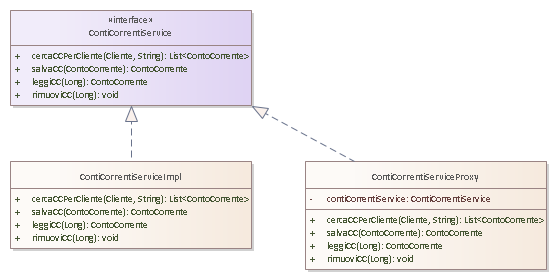
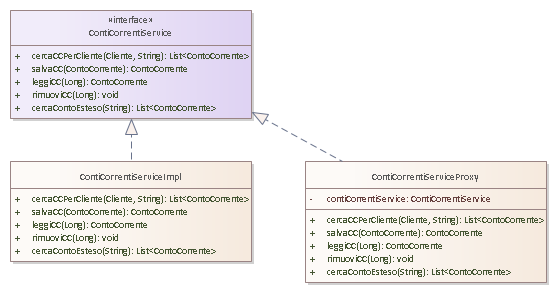
Aggiornato UML

diff --git a/UML/EARoot/EA8/EA1/EA158.htm b/UML/EARoot/EA8/EA1/EA158.htm
@@ -167,8 +167,8 @@
 				</tr>
 		   		<tr>
 					<td class="TableRowBottomDashed"  colspan="2">
-						<div class="DetailsDivParent"><button onclick="switchProjectProperties()"><img src="../../../images/minus03.gif" align="absmiddle" id="DetailsImageMessage155" /></button>Details:
-							<div id="detailsDIVMessage155" class="DetailsDiv" >
+						<div class="DetailsDivParent"><button onclick="switchProjectProperties()"><img src="../../../images/minus03.gif" align="absmiddle" id="DetailsImageMessage158" /></button>Details:
+							<div id="detailsDIVMessage158" class="DetailsDiv" >
 							<strong>Type:</strong> Sequence Synchronous Call<br />
 							&nbsp;
 							</div>
@@ -181,8 +181,8 @@
 				</tr>
 		   		<tr>
 					<td class="TableRowBottomDashed"  colspan="2">
-						<div class="DetailsDivParent"><button onclick="switchProjectProperties()"><img src="../../../images/minus03.gif" align="absmiddle" id="DetailsImageMessage156" /></button>Details:
-							<div id="detailsDIVMessage156" class="DetailsDiv" >
+						<div class="DetailsDivParent"><button onclick="switchProjectProperties()"><img src="../../../images/minus03.gif" align="absmiddle" id="DetailsImageMessage159" /></button>Details:
+							<div id="detailsDIVMessage159" class="DetailsDiv" >
 							<strong>Type:</strong> Sequence Synchronous Call<br />
 							&nbsp;
 							</div>
@@ -195,8 +195,8 @@
 				</tr>
 		   		<tr>
 					<td class="TableRowBottomDashed"  colspan="2">
-						<div class="DetailsDivParent"><button onclick="switchProjectProperties()"><img src="../../../images/minus03.gif" align="absmiddle" id="DetailsImageMessage157" /></button>Details:
-							<div id="detailsDIVMessage157" class="DetailsDiv" >
+						<div class="DetailsDivParent"><button onclick="switchProjectProperties()"><img src="../../../images/minus03.gif" align="absmiddle" id="DetailsImageMessage160" /></button>Details:
+							<div id="detailsDIVMessage160" class="DetailsDiv" >
 							<strong>Type:</strong> Sequence Synchronous Call<br />
 							&nbsp;
 							</div>
@@ -218,8 +218,8 @@
 				</tr>
 		   		<tr>
 					<td class="TableRowBottomDashed"  colspan="2">
-						<div class="DetailsDivParent"><button onclick="switchProjectProperties()"><img src="../../../images/minus03.gif" align="absmiddle" id="DetailsImageMessage158" /></button>Details:
-							<div id="detailsDIVMessage158" class="DetailsDiv" >
+						<div class="DetailsDivParent"><button onclick="switchProjectProperties()"><img src="../../../images/minus03.gif" align="absmiddle" id="DetailsImageMessage161" /></button>Details:
+							<div id="detailsDIVMessage161" class="DetailsDiv" >
 							<strong>Type:</strong> Sequence Synchronous Call<br />
 							&nbsp;
 							</div>
@@ -232,8 +232,8 @@
 				</tr>
 		   		<tr>
 					<td class="TableRowBottomDashed"  colspan="2">
-						<div class="DetailsDivParent"><button onclick="switchProjectProperties()"><img src="../../../images/minus03.gif" align="absmiddle" id="DetailsImageMessage159" /></button>Details:
-							<div id="detailsDIVMessage159" class="DetailsDiv" >
+						<div class="DetailsDivParent"><button onclick="switchProjectProperties()"><img src="../../../images/minus03.gif" align="absmiddle" id="DetailsImageMessage162" /></button>Details:
+							<div id="detailsDIVMessage162" class="DetailsDiv" >
 							<strong>Type:</strong> Sequence Synchronous Call<br />
 							&nbsp;
 							</div>
@@ -246,8 +246,8 @@
 				</tr>
 		   		<tr>
 					<td class="TableRowBottomDashed"  colspan="2">
-						<div class="DetailsDivParent"><button onclick="switchProjectProperties()"><img src="../../../images/minus03.gif" align="absmiddle" id="DetailsImageMessage160" /></button>Details:
-							<div id="detailsDIVMessage160" class="DetailsDiv" >
+						<div class="DetailsDivParent"><button onclick="switchProjectProperties()"><img src="../../../images/minus03.gif" align="absmiddle" id="DetailsImageMessage163" /></button>Details:
+							<div id="detailsDIVMessage163" class="DetailsDiv" >
 							<strong>Type:</strong> Sequence Synchronous Call<br />
 							&nbsp;
 							</div>

diff --git a/UML/EARoot/EA8/EA1/EA157.htm b/UML/EARoot/EA8/EA1/EA157.htm
@@ -167,8 +167,8 @@
 				</tr>
 		   		<tr>
 					<td class="TableRowBottomDashed"  colspan="2">
-						<div class="DetailsDivParent"><button onclick="switchProjectProperties()"><img src="../../../images/minus03.gif" align="absmiddle" id="DetailsImageMessage151" /></button>Details:
-							<div id="detailsDIVMessage151" class="DetailsDiv" >
+						<div class="DetailsDivParent"><button onclick="switchProjectProperties()"><img src="../../../images/minus03.gif" align="absmiddle" id="DetailsImageMessage154" /></button>Details:
+							<div id="detailsDIVMessage154" class="DetailsDiv" >
 							<strong>Type:</strong> Sequence Synchronous Call<br />
 							&nbsp;
 							</div>
@@ -181,8 +181,8 @@
 				</tr>
 		   		<tr>
 					<td class="TableRowBottomDashed"  colspan="2">
-						<div class="DetailsDivParent"><button onclick="switchProjectProperties()"><img src="../../../images/minus03.gif" align="absmiddle" id="DetailsImageMessage152" /></button>Details:
-							<div id="detailsDIVMessage152" class="DetailsDiv" >
+						<div class="DetailsDivParent"><button onclick="switchProjectProperties()"><img src="../../../images/minus03.gif" align="absmiddle" id="DetailsImageMessage155" /></button>Details:
+							<div id="detailsDIVMessage155" class="DetailsDiv" >
 							<strong>Type:</strong> Sequence Synchronous Call<br />
 							&nbsp;
 							</div>
@@ -204,8 +204,8 @@
 				</tr>
 		   		<tr>
 					<td class="TableRowBottomDashed"  colspan="2">
-						<div class="DetailsDivParent"><button onclick="switchProjectProperties()"><img src="../../../images/minus03.gif" align="absmiddle" id="DetailsImageMessage153" /></button>Details:
-							<div id="detailsDIVMessage153" class="DetailsDiv" >
+						<div class="DetailsDivParent"><button onclick="switchProjectProperties()"><img src="../../../images/minus03.gif" align="absmiddle" id="DetailsImageMessage156" /></button>Details:
+							<div id="detailsDIVMessage156" class="DetailsDiv" >
 							<strong>Type:</strong> Sequence Synchronous Call<br />
 							&nbsp;
 							</div>
@@ -218,8 +218,8 @@
 				</tr>
 		   		<tr>
 					<td class="TableRowBottomDashed"  colspan="2">
-						<div class="DetailsDivParent"><button onclick="switchProjectProperties()"><img src="../../../images/minus03.gif" align="absmiddle" id="DetailsImageMessage154" /></button>Details:
-							<div id="detailsDIVMessage154" class="DetailsDiv" >
+						<div class="DetailsDivParent"><button onclick="switchProjectProperties()"><img src="../../../images/minus03.gif" align="absmiddle" id="DetailsImageMessage157" /></button>Details:
+							<div id="detailsDIVMessage157" class="DetailsDiv" >
 							<strong>Type:</strong> Sequence Synchronous Call<br />
 							&nbsp;
 							</div>

diff --git a/UML/EARoot/EA6/EA2/EA94.htm b/UML/EARoot/EA6/EA2/EA94.htm
@@ -200,7 +200,7 @@ s: String,
 			<tr>
 				<td class="TableRowBottomDashed"  colspan="1">
 					<div class="DetailsDivParent">Details:</BR>
-						<div id="detailsDIVOperations97" class="DetailsDiv" >					
+						<div id="detailsDIVOperations99" class="DetailsDiv" >					
 					
 						</div>
 <div style="text-align: right">[ Is static False. Is abstract False. Is return array False. Is query False. Is synchronized False. ]</div>
@@ -217,7 +217,7 @@ s: String,
 			<tr>
 				<td class="TableRowBottomDashed"  colspan="1">
 					<div class="DetailsDivParent">Details:</BR>
-						<div id="detailsDIVOperations98" class="DetailsDiv" >					
+						<div id="detailsDIVOperations100" class="DetailsDiv" >					
 					<div class="ObjectDetailsNotes"><table>
 	<tr>
 		<td valign="top">
@@ -244,7 +244,7 @@ s: String,
 			<tr>
 				<td class="TableRowBottomDashed"  colspan="1">
 					<div class="DetailsDivParent">Details:</BR>
-						<div id="detailsDIVOperations99" class="DetailsDiv" >					
+						<div id="detailsDIVOperations101" class="DetailsDiv" >					
 					
 						</div>
 <div style="text-align: right">[ Is static False. Is abstract False. Is return array False. Is query False. Is synchronized False. ]</div>
@@ -261,7 +261,24 @@ s: String,
 			<tr>
 				<td class="TableRowBottomDashed"  colspan="1">
 					<div class="DetailsDivParent">Details:</BR>
-						<div id="detailsDIVOperations100" class="DetailsDiv" >					
+						<div id="detailsDIVOperations102" class="DetailsDiv" >					
+					
+						</div>
+<div style="text-align: right">[ Is static False. Is abstract False. Is return array False. Is query False. Is synchronized False. ]</div>
+					</div>
+				</td>
+			</tr>
+			<tr>
+				<td width="100%" class="TableRow">
+					<i>Public</i><br />
+					<strong>cercaContoEsteso</strong> (p: String, 
+) : List&lt;ContoCorrente&gt;
+				</td>
+			</tr>
+			<tr>
+				<td class="TableRowBottomDashed"  colspan="1">
+					<div class="DetailsDivParent">Details:</BR>
+						<div id="detailsDIVOperations103" class="DetailsDiv" >					
 					
 						</div>
 <div style="text-align: right">[ Is static False. Is abstract False. Is return array False. Is query False. Is synchronized False. ]</div>

diff --git a/UML/EARoot/EA6/EA2/EA93.htm b/UML/EARoot/EA6/EA2/EA93.htm
@@ -172,7 +172,7 @@ s: String,
 			<tr>
 				<td class="TableRowBottomDashed"  colspan="1">
 					<div class="DetailsDivParent">Details:</BR>
-						<div id="detailsDIVOperations92" class="DetailsDiv" >					
+						<div id="detailsDIVOperations93" class="DetailsDiv" >					
 					
 						</div>
 <div style="text-align: right">[ Is static False. Is abstract False. Is return array False. Is query False. Is synchronized False. ]</div>
@@ -189,7 +189,7 @@ s: String,
 			<tr>
 				<td class="TableRowBottomDashed"  colspan="1">
 					<div class="DetailsDivParent">Details:</BR>
-						<div id="detailsDIVOperations93" class="DetailsDiv" >					
+						<div id="detailsDIVOperations94" class="DetailsDiv" >					
 					<div class="ObjectDetailsNotes"><table>
 	<tr>
 		<td valign="top">
@@ -216,7 +216,7 @@ s: String,
 			<tr>
 				<td class="TableRowBottomDashed"  colspan="1">
 					<div class="DetailsDivParent">Details:</BR>
-						<div id="detailsDIVOperations94" class="DetailsDiv" >					
+						<div id="detailsDIVOperations95" class="DetailsDiv" >					
 					
 						</div>
 <div style="text-align: right">[ Is static False. Is abstract False. Is return array False. Is query False. Is synchronized False. ]</div>
@@ -233,7 +233,24 @@ s: String,
 			<tr>
 				<td class="TableRowBottomDashed"  colspan="1">
 					<div class="DetailsDivParent">Details:</BR>
-						<div id="detailsDIVOperations95" class="DetailsDiv" >					
+						<div id="detailsDIVOperations96" class="DetailsDiv" >					
+					
+						</div>
+<div style="text-align: right">[ Is static False. Is abstract False. Is return array False. Is query False. Is synchronized False. ]</div>
+					</div>
+				</td>
+			</tr>
+			<tr>
+				<td width="100%" class="TableRow">
+					<i>Public</i><br />
+					<strong>cercaContoEsteso</strong> (p: String, 
+) : List&lt;ContoCorrente&gt;
+				</td>
+			</tr>
+			<tr>
+				<td class="TableRowBottomDashed"  colspan="1">
+					<div class="DetailsDivParent">Details:</BR>
+						<div id="detailsDIVOperations97" class="DetailsDiv" >					
 					
 						</div>
 <div style="text-align: right">[ Is static False. Is abstract False. Is return array False. Is query False. Is synchronized False. ]</div>

diff --git a/UML/EARoot/EA8/EA1/EA159.htm b/UML/EARoot/EA8/EA1/EA159.htm
@@ -167,8 +167,8 @@
 				</tr>
 		   		<tr>
 					<td class="TableRowBottomDashed"  colspan="2">
-						<div class="DetailsDivParent"><button onclick="switchProjectProperties()"><img src="../../../images/minus03.gif" align="absmiddle" id="DetailsImageMessage161" /></button>Details:
-							<div id="detailsDIVMessage161" class="DetailsDiv" >
+						<div class="DetailsDivParent"><button onclick="switchProjectProperties()"><img src="../../../images/minus03.gif" align="absmiddle" id="DetailsImageMessage164" /></button>Details:
+							<div id="detailsDIVMessage164" class="DetailsDiv" >
 							<strong>Type:</strong> Sequence Synchronous Call<br />
 							&nbsp;
 							</div>
@@ -190,8 +190,8 @@
 				</tr>
 		   		<tr>
 					<td class="TableRowBottomDashed"  colspan="2">
-						<div class="DetailsDivParent"><button onclick="switchProjectProperties()"><img src="../../../images/minus03.gif" align="absmiddle" id="DetailsImageMessage162" /></button>Details:
-							<div id="detailsDIVMessage162" class="DetailsDiv" >
+						<div class="DetailsDivParent"><button onclick="switchProjectProperties()"><img src="../../../images/minus03.gif" align="absmiddle" id="DetailsImageMessage165" /></button>Details:
+							<div id="detailsDIVMessage165" class="DetailsDiv" >
 							<strong>Type:</strong> Sequence Synchronous Call<br />
 							&nbsp;
 							</div>

diff --git a/UML/EARoot/EA8/EA1/EA160.htm b/UML/EARoot/EA8/EA1/EA160.htm
@@ -167,8 +167,8 @@
 				</tr>
 		   		<tr>
 					<td class="TableRowBottomDashed"  colspan="2">
-						<div class="DetailsDivParent"><button onclick="switchProjectProperties()"><img src="../../../images/minus03.gif" align="absmiddle" id="DetailsImageMessage163" /></button>Details:
-							<div id="detailsDIVMessage163" class="DetailsDiv" >
+						<div class="DetailsDivParent"><button onclick="switchProjectProperties()"><img src="../../../images/minus03.gif" align="absmiddle" id="DetailsImageMessage166" /></button>Details:
+							<div id="detailsDIVMessage166" class="DetailsDiv" >
 							<strong>Type:</strong> Sequence Synchronous Call<br />
 							&nbsp;
 							</div>
@@ -190,8 +190,8 @@
 				</tr>
 		   		<tr>
 					<td class="TableRowBottomDashed"  colspan="2">
-						<div class="DetailsDivParent"><button onclick="switchProjectProperties()"><img src="../../../images/minus03.gif" align="absmiddle" id="DetailsImageMessage164" /></button>Details:
-							<div id="detailsDIVMessage164" class="DetailsDiv" >
+						<div class="DetailsDivParent"><button onclick="switchProjectProperties()"><img src="../../../images/minus03.gif" align="absmiddle" id="DetailsImageMessage167" /></button>Details:
+							<div id="detailsDIVMessage167" class="DetailsDiv" >
 							<strong>Type:</strong> Sequence Synchronous Call<br />
 							&nbsp;
 							</div>

diff --git a/UML/EARoot/EA6/EA2/EA92.htm b/UML/EARoot/EA6/EA2/EA92.htm
@@ -240,6 +240,23 @@ s: String,
 					</div>
 				</td>
 			</tr>
+			<tr>
+				<td width="100%" class="TableRow">
+					<i>Public</i><br />
+					<strong>cercaContoEsteso</strong> (p: String, 
+) : List&lt;ContoCorrente&gt;
+				</td>
+			</tr>
+			<tr>
+				<td class="TableRowBottomDashed"  colspan="1">
+					<div class="DetailsDivParent">Details:</BR>
+						<div id="detailsDIVOperations92" class="DetailsDiv" >					
+					
+						</div>
+<div style="text-align: right">[ Is static False. Is abstract False. Is return array False. Is query False. Is synchronized False. ]</div>
+					</div>
+				</td>
+			</tr>
 
 		</table>
 </div>		<div class="ItemBody" id="CustomPropertiesTable">

diff --git a/UML/EARoot/EA6/EA2/EA89.htm b/UML/EARoot/EA6/EA2/EA89.htm
@@ -96,9 +96,9 @@
 <img src="EA90.png" usemap="#EA90" border="0" />
 
 <MAP NAME="EA90">
-<area shape="rect" coords="305,161,547,270" href="EA94.htm" target="_self">
-<area shape="rect" coords="10,161,252,249" href="EA93.htm" target="_self">
-<area shape="rect" coords="10,10,252,106" href="EA92.htm" target="_self">
+<area shape="rect" coords="305,161,547,283" href="EA94.htm" target="_self">
+<area shape="rect" coords="10,161,252,262" href="EA93.htm" target="_self">
+<area shape="rect" coords="10,10,252,119" href="EA92.htm" target="_self">
 </MAP>
  </div>
 	<div class="ObjectTitle">ContiCorrentiService : Class diagram</div>
